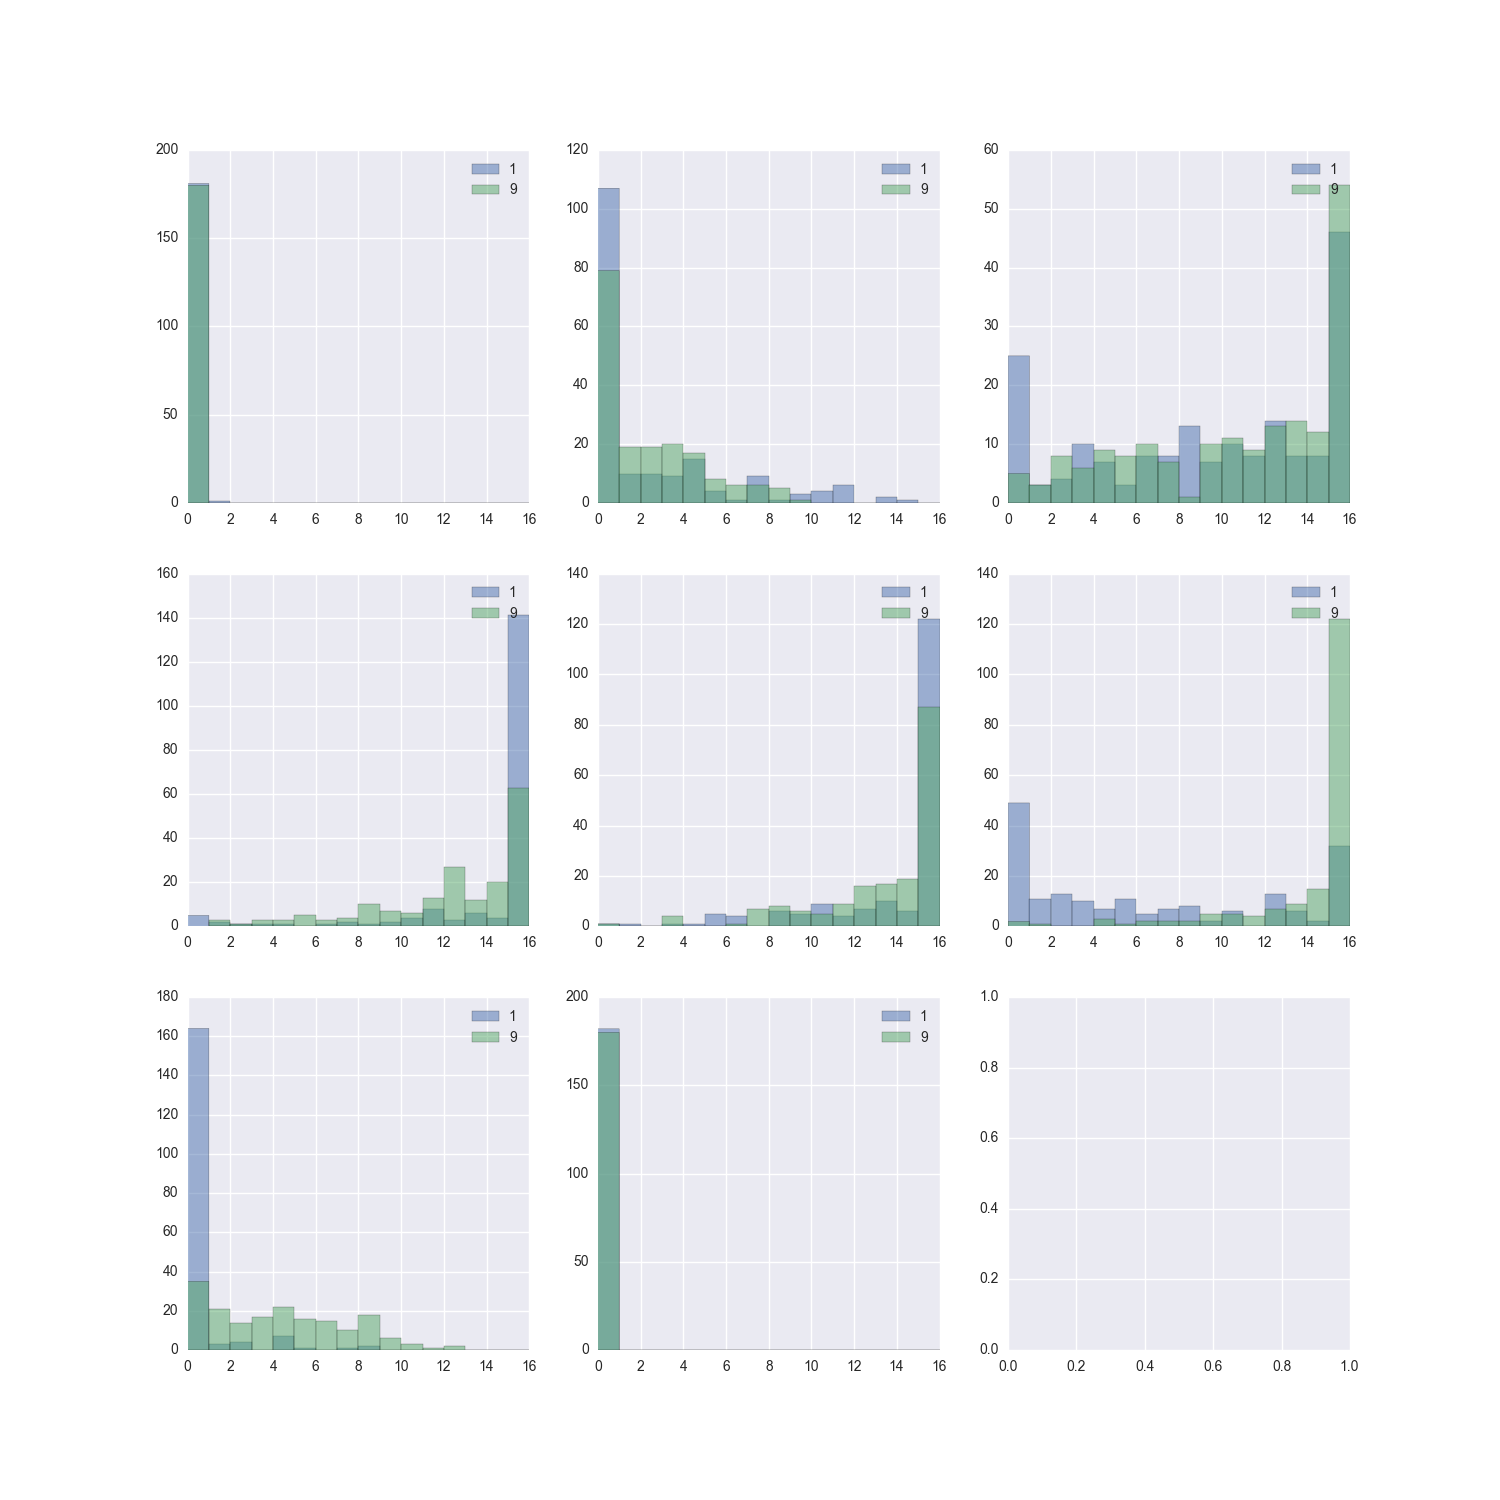
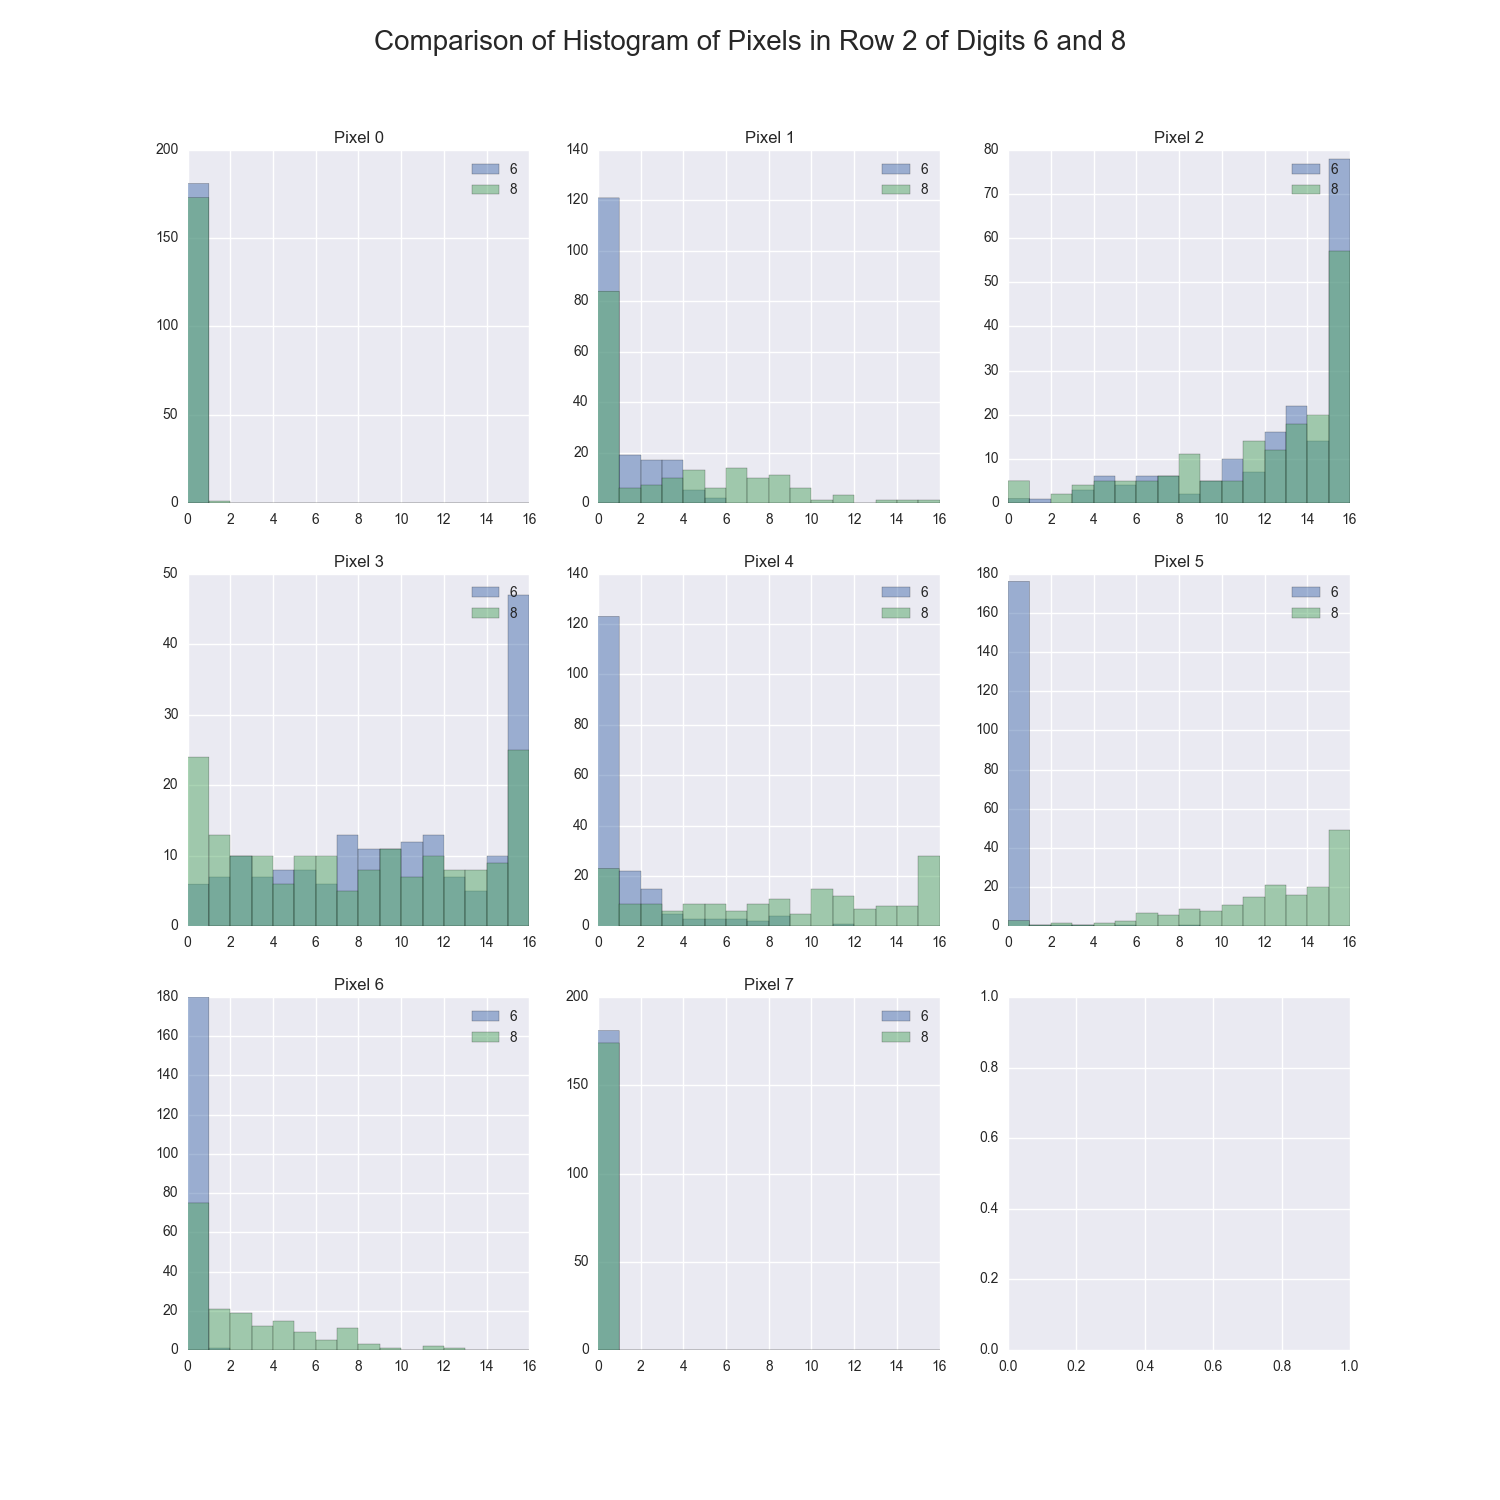
Add random plot example

diff --git a/Digit_Comparison.py b/Digit_Comparison.py
@@ -12,7 +12,9 @@ from sklearn.datasets import load_digits
 
 class Digit_Comparison(object):
     '''
-    Compares certain rows of pixels of two digits
+    Compares pixels in certain rows of two digits.
+    User can use .plot_hist to compared certain digits.
+                 .plot_random_hist to plot an example of random row of two different random digits.
     '''
 
 
@@ -21,18 +23,16 @@ class Digit_Comparison(object):
         Retrieves data and target of hand written digits dataset
         
         
-        Parameters
-        ----------
+        Parameters :
+        ------------
         None
-
 
         Returns : 
-        ----------
+        ---------
         None
         
-        
         Notes :
-        ----------
+        -------
         This includes data and target of all 10 digits.
         '''
         
@@ -47,19 +47,17 @@ class Digit_Comparison(object):
         Plot histograms to compare data of 8 pixels in specified rows of two specified digits
         
         
-        Parameters
-        ----------
+        Parameters :
+        ------------
         None
 
-
         Returns : 
-        ----------
+        ---------
         Histograms
         
-        
         Notes :
-        ----------
-        8 histograms corresponds to 8 digits in the specified row
+        -------
+        8 histograms corresponds to 8 pixels in the specified row
         '''
         
         # set bin
@@ -72,14 +70,16 @@ class Digit_Comparison(object):
         
         # set figure
         fig, axs = plt.subplots(3,3,figsize=(15,15))
+        plt.suptitle('Comparison of Histogram of Pixels in Row '+str(row)+' of Digits '+str(digit_1)+
+                     ' and '+str(digit_2), size=20)
         for row in xrange(3):
             for col in xrange(3):
                 plot_index = row*3+col
                 if  plot_index < 8 :
-                    print plot_index
                     axs[row, col].hist(df_digit_1.iloc[:, plot_index], bins, alpha=0.5, label=str(digit_1))
                     axs[row, col].hist(df_digit_2.iloc[:, plot_index], bins, alpha=0.5, label=str(digit_2))
                     axs[row, col].legend(loc='upper right')
+                    axs[row, col].set_title('Pixel '+str(plot_index))
         
         fig.savefig('Digit_Hist.png')
         plt.show()        
@@ -90,20 +90,20 @@ class Digit_Comparison(object):
         Extract subsets of data of specified digit and row
         
         
-        Parameters
-        ----------
+        Parameters :
+        ------------
         digit : int
             digit to compare
         row : int
             row number of the data
                 
         Returns : 
-        ----------
+        ---------
         df : data frame
             contains data of 8 pixels in the specified row of the specified digit
         
         Notes :
-        ----------
+        -------
         
         '''
         digit_data = self.data[self.target==digit]
@@ -115,12 +115,12 @@ class Digit_Comparison(object):
         Lets user specify the 2 digits and row number for comparison
         
         
-        Parameters
-        ----------
+        Parameters :
+        ------------
         None
                 
         Returns : 
-        ----------
+        ---------
         digit_1 : int
                 first digit
         digit_2 : int
@@ -129,17 +129,85 @@ class Digit_Comparison(object):
                 row number
         
         Notes :
-        ----------
+        -------
         
         '''
-        digit_1 = raw_input('Enter Digit 1')
-        digit_2 = raw_input('Enter Digit 2')
-        row = raw_input('Enter Row Number')
+        digit_1 = raw_input('Enter Digit 1 : ')
+        digit_2 = raw_input('Enter Digit 2 : ')
+        row = raw_input('Enter Row Number : ')
         return int(digit_1), int(digit_2), int(row)
+    
+    def get_random_number(self):
+        '''
+        Generate 2 random digits and row number for comparison as an example.
+        
+        
+        Parameters :
+        ------------
+        None
+                
+        Returns : 
+        ---------
+        digit_1 : int
+                first digit, [0,9]
+        digit_2 : int
+                second digit, [0,9], different from digit_1
+        row : int
+                row number, [0,7]
+        
+        Notes :
+        -------
+        digit_1 and digit_2 cannot be the same
+        '''
+        digit_1, digit_2 = random.sample(range(0,10), 2)
+        row = random.randint(0,7)
+        return digit_1, digit_2, row
+    
+    def plot_random_hist(self):
+        
+        '''
+        Plot histograms to compare data of 8 pixels in a random row of two randomly selected digits
+        
+        
+        Parameters :
+        ------------
+        None
 
-
+        Returns : 
+        ---------
+        Histograms
+        
+        Notes :
+        -------
+        8 histograms corresponds to 8 pixels in the specified row
+        '''
+        
+        # set bin
+        bins = np.linspace(0, 16, 17)
+        digit_1, digit_2, row = self.get_random_number() 
+        
+        # get data for plotting
+        df_digit_1 = self.get_data(digit_1, row)
+        df_digit_2 = self.get_data(digit_2, row)
+        
+        # set figure
+        fig, axs = plt.subplots(3,3,figsize=(15,15))
+        plt.suptitle('Comparison of Histogram of Pixels in Row '+str(row)+' of Digits '+str(digit_1)+
+                     ' and '+str(digit_2), size=20)
+        
+        for row in xrange(3):
+            for col in xrange(3):
+                plot_index = row*3+col
+                if  plot_index < 8 :
+                    axs[row, col].hist(df_digit_1.iloc[:, plot_index], bins, alpha=0.5, label=str(digit_1))
+                    axs[row, col].hist(df_digit_2.iloc[:, plot_index], bins, alpha=0.5, label=str(digit_2))
+                    axs[row, col].legend(loc='upper right')
+                    axs[row, col].set_title('Pixel '+str(plot_index))
+        
+        # fig.savefig('Random_Hist.png')
+        plt.show()     
+    
 if __name__ == '__main__':
     dc = Digit_Comparison()
+    # dc.plot_random_hist()
     dc.plot_hist()
-    
-
